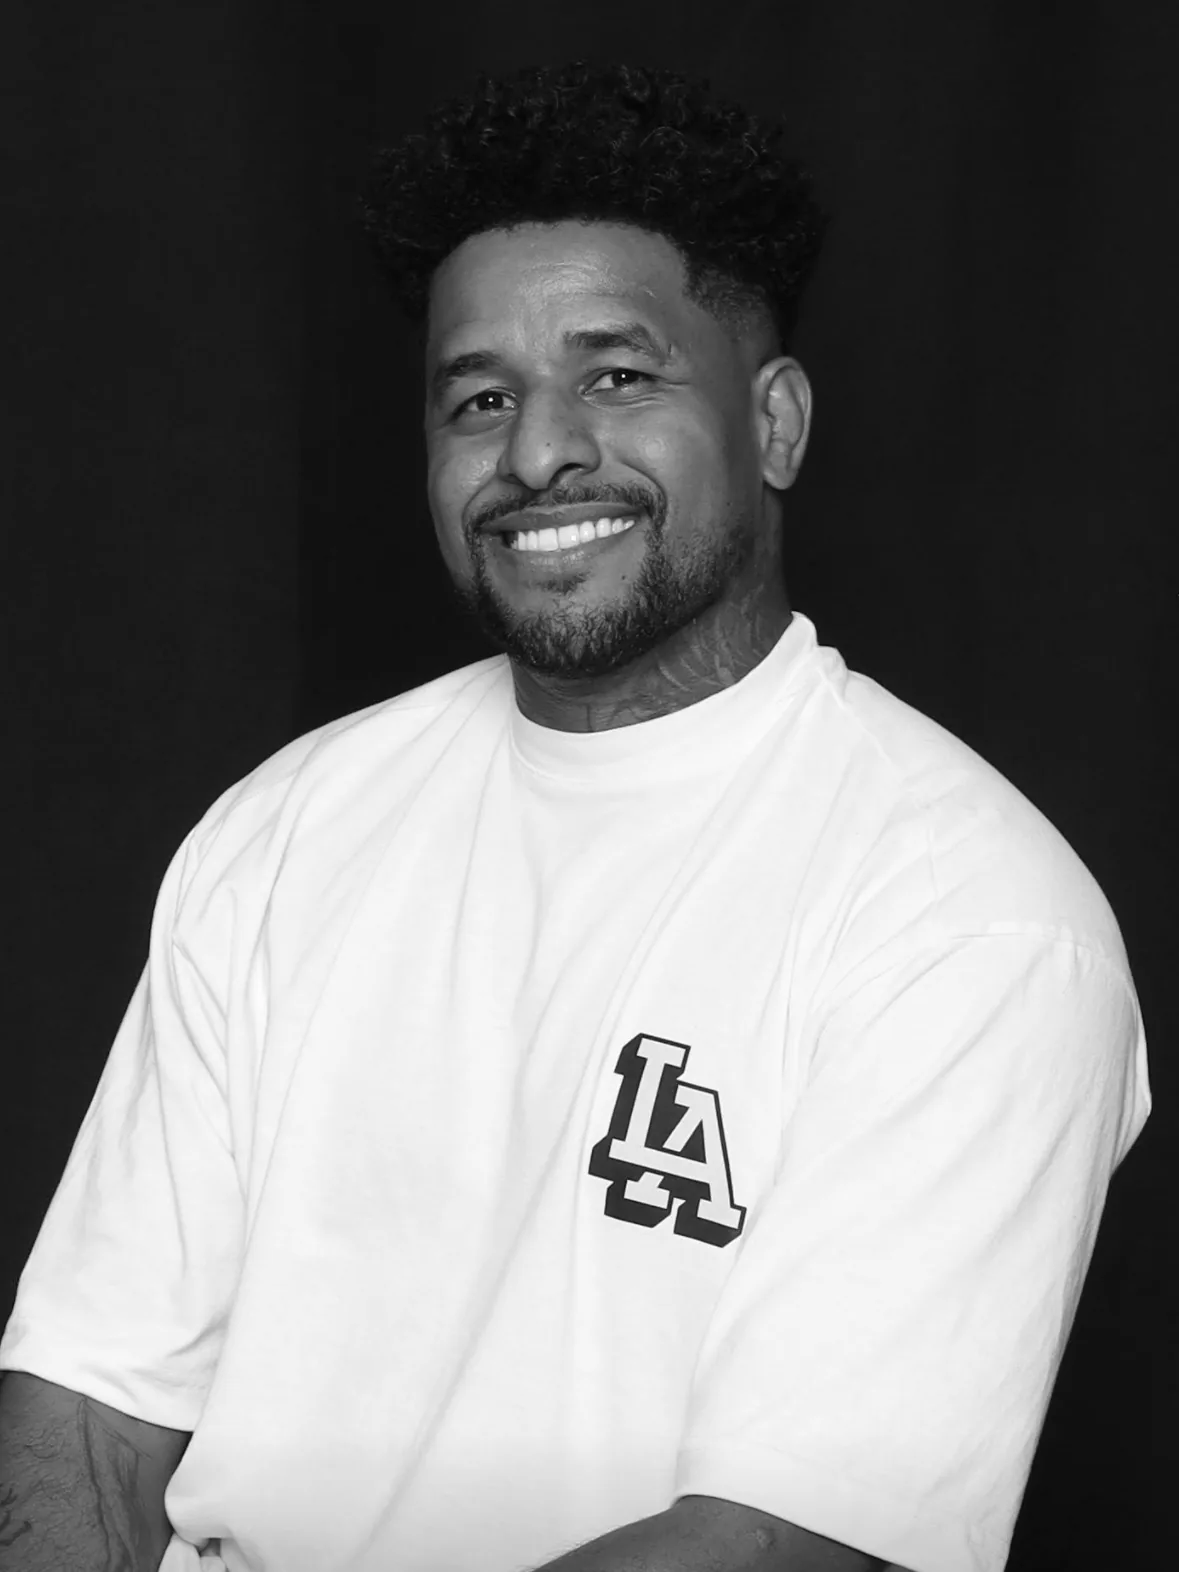
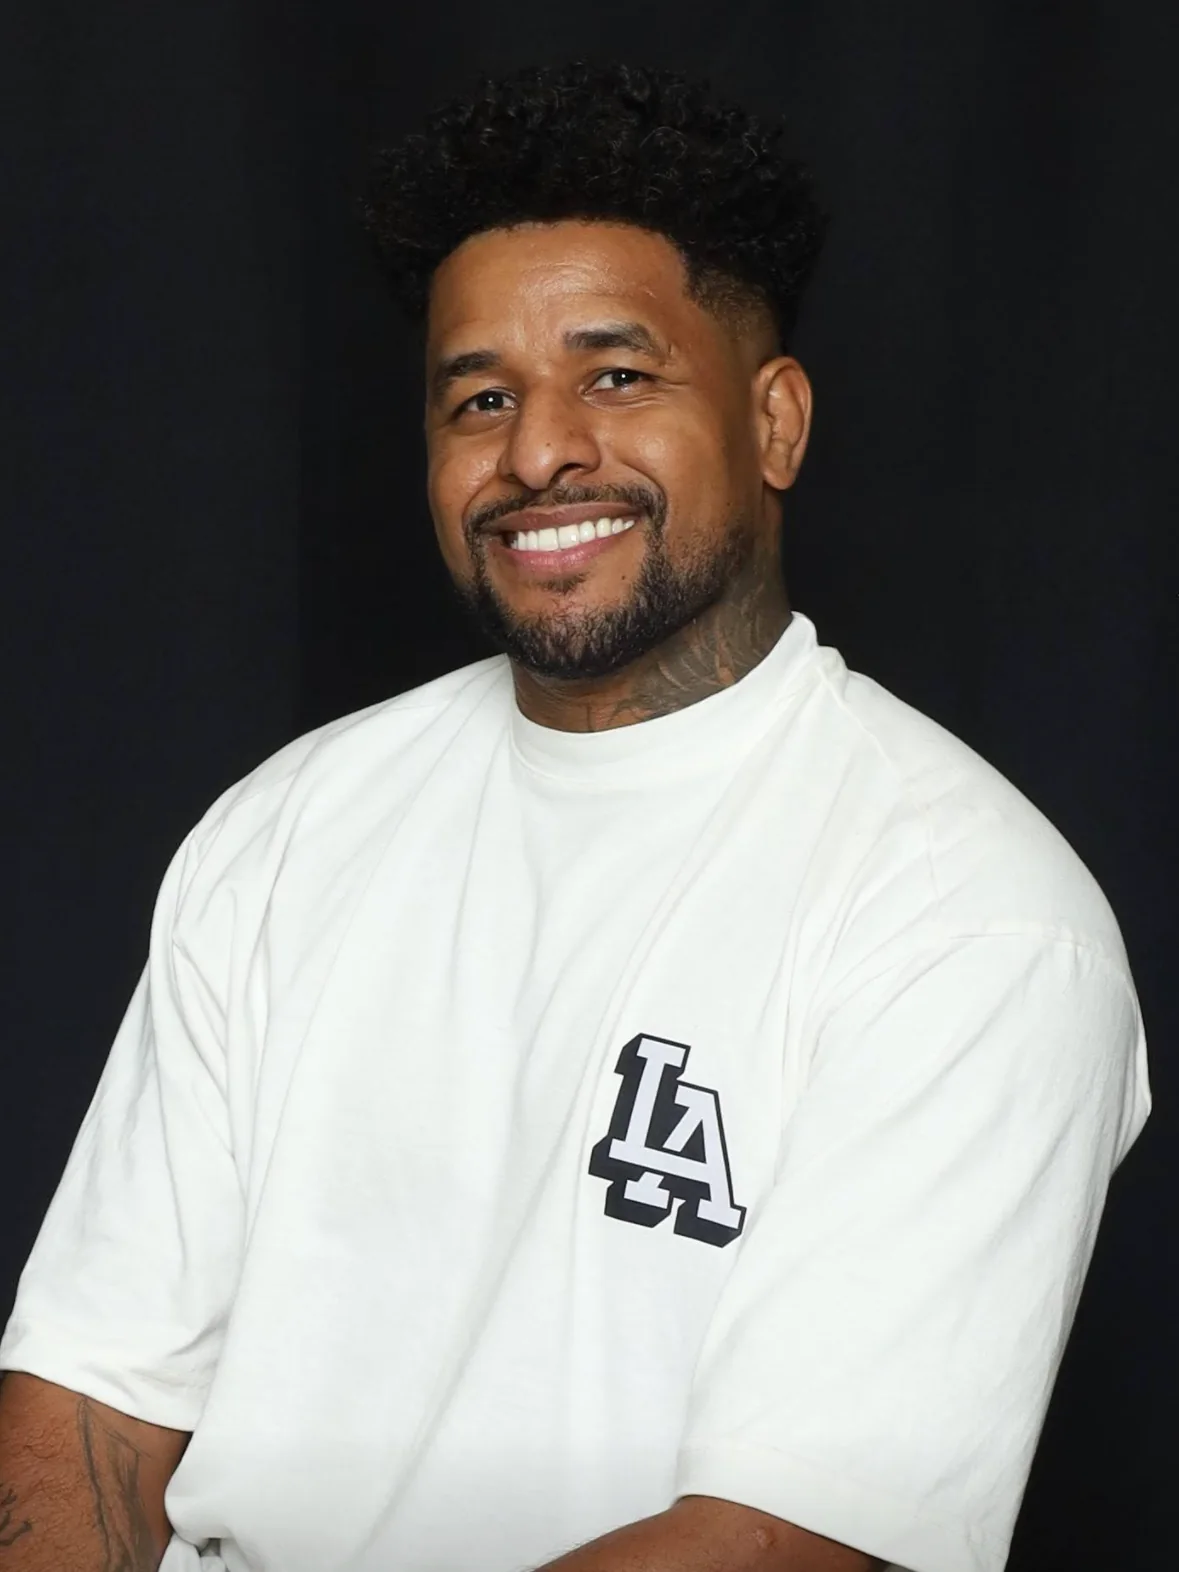
Abertura: o esboco do A se desenha a lapis e vira a arte final
Vetorizei o A aqui mesmo (varredura de vizinhanca + Ramer-Douglas-Peucker, sem potrace na maquina): 19 contornos, 9 KB de SVG com pathLength=1, o que faz todos os tracos riscarem no mesmo tempo. A cortina agora e de papel, nao mais preta: os tracos sao riscados um a um em grafite, o risco dourado abre embaixo e a arte final aparece por cima do esboco - o stencil virando a tattoo. Foto do Andre volta a ser colorida: em preto e branco parecia retrato de memorial.

Claude-Session: https://claude.ai/code/session_01B5M85Z4aLg2P7kzFy8eM4Z

diff --git a/site/index.html b/site/index.html
@@ -55,11 +55,31 @@
 
 <div class="intro" id="intro" aria-hidden="true">
   <div class="intro__palco">
-    <i class="intro__agulha"></i>
-    <span class="intro__a"></span>
-    <span class="intro__brilho"></span>
+    <div class="intro__esboco"><svg aria-hidden="true" xmlns="http://www.w3.org/2000/svg" viewBox="0 0 422 468" fill="none" stroke="currentColor" stroke-width="1.1" stroke-linecap="round" stroke-linejoin="round">
+<path pathLength="1" style="--i:0" d="M 213.0 1.0 L 215.0 19.0 L 222.0 43.0 L 247.0 99.0 L 250.0 103.0 L 257.0 123.0 L 261.0 130.0 L 261.0 132.0 L 260.0 131.0 L 258.0 134.0 L 262.0 138.0 L 263.0 137.0 L 267.0 146.0 L 261.0 144.0 L 257.0 147.0 L 258.0 150.0 L 257.0 154.0 L 255.0 155.0 L 258.0 160.0 L 252.0 163.0 L 249.0 161.0 L 245.0 162.0 L 246.0 159.0 L 244.0 158.0 L 245.0 155.0 L 243.0 153.0 L 240.0 156.0 L 241.0 157.0 L 240.0 162.0 L 238.0 159.0 L 239.0 157.0 L 237.0 152.0 L 233.0 154.0 L 234.0 156.0 L 233.0 157.0 L 229.0 158.0 L 228.0 160.0 L 229.0 162.0 L 228.0 162.0 L 213.0 126.0 L 215.0 125.0 L 218.0 129.0 L 220.0 127.0 L 219.0 123.0 L 222.0 121.0 L 222.0 119.0 L 216.0 115.0 L 208.0 116.0 L 202.0 129.0 L 199.0 169.0 L 198.0 114.0 L 195.0 98.0 L 190.0 84.0 L 194.0 90.0 L 197.0 92.0 L 196.0 94.0 L 198.0 96.0 L 200.0 93.0 L 199.0 92.0 L 202.0 91.0 L 203.0 87.0 L 207.0 89.0 L 208.0 101.0 L 206.0 103.0 L 208.0 107.0 L 205.0 110.0 L 206.0 111.0 L 211.0 110.0 L 210.0 109.0 L 211.0 100.0 L 211.0 86.0 L 210.0 85.0 L 211.0 67.0 L 210.0 64.0 L 212.0 60.0 L 211.0 59.0 L 211.0 38.0 L 212.0 37.0 L 211.0 25.0 L 212.0 24.0 L 210.0 23.0 L 207.0 35.0 L 208.0 42.0 L 206.0 47.0 L 206.0 53.0 L 204.0 56.0 L 207.0 59.0 L 205.0 59.0 L 193.0 72.0 L 185.0 78.0 L 162.0 121.0 L 126.0 194.0 L 121.0 201.0 L 106.0 236.0 L 103.0 241.0 L 98.0 243.0 L 94.0 248.0 L 108.0 218.0 L 141.0 156.0 L 140.0 153.0 L 137.0 157.0 L 140.0 150.0 L 143.0 145.0 L 142.0 147.0 L 143.0 150.0 L 146.0 146.0 L 156.0 125.0 L 167.0 106.0 L 177.0 85.0 L 179.0 78.0 L 187.0 67.0 L 205.0 32.0 L 211.0 15.0 L 213.0 2.0 Z"/>
+<path pathLength="1" style="--i:1" d="M 273.0 213.0 L 273.0 216.0 L 276.0 220.0 L 279.0 230.0 L 281.0 232.0 L 283.0 231.0 L 282.0 230.0 L 283.0 227.0 L 280.0 224.0 L 282.0 222.0 L 281.0 219.0 L 283.0 219.0 L 284.0 224.0 L 291.0 229.0 L 290.0 233.0 L 294.0 241.0 L 294.0 246.0 L 295.0 247.0 L 297.0 246.0 L 301.0 250.0 L 303.0 249.0 L 303.0 245.0 L 302.0 240.0 L 299.0 237.0 L 300.0 234.0 L 297.0 229.0 L 297.0 224.0 L 300.0 232.0 L 304.0 235.0 L 305.0 230.0 L 302.0 225.0 L 302.0 222.0 L 349.0 327.0 L 354.0 342.0 L 372.0 375.0 L 384.0 388.0 L 393.0 394.0 L 415.0 402.0 L 401.0 400.0 L 392.0 396.0 L 384.0 395.0 L 371.0 390.0 L 367.0 390.0 L 356.0 384.0 L 353.0 384.0 L 354.0 382.0 L 349.0 377.0 L 347.0 379.0 L 343.0 375.0 L 343.0 372.0 L 345.0 370.0 L 344.0 365.0 L 341.0 367.0 L 342.0 369.0 L 338.0 371.0 L 327.0 362.0 L 326.0 364.0 L 331.0 379.0 L 328.0 387.0 L 330.0 382.0 L 329.0 373.0 L 322.0 358.0 L 312.0 344.0 L 301.0 333.0 L 293.0 328.0 L 289.0 324.0 L 290.0 323.0 L 289.0 322.0 L 286.0 323.0 L 286.0 337.0 L 281.0 354.0 L 280.0 354.0 L 282.0 350.0 L 285.0 335.0 L 284.0 310.0 L 276.0 279.0 L 254.0 224.0 L 258.0 230.0 L 265.0 248.0 L 268.0 252.0 L 270.0 251.0 L 271.0 254.0 L 273.0 255.0 L 275.0 253.0 L 274.0 251.0 L 276.0 248.0 L 271.0 245.0 L 276.0 247.0 L 277.0 245.0 L 280.0 245.0 L 281.0 247.0 L 282.0 246.0 L 282.0 242.0 L 280.0 240.0 L 278.0 241.0 L 277.0 239.0 L 280.0 235.0 L 278.0 233.0 L 276.0 234.0 L 274.0 233.0 L 275.0 232.0 L 276.0 233.0 L 278.0 230.0 L 276.0 224.0 L 273.0 221.0 L 274.0 220.0 L 273.0 214.0 Z"/>
+<path pathLength="1" style="--i:2" d="M 322.0 143.0 L 326.0 144.0 L 327.0 146.0 L 307.0 156.0 L 304.0 159.0 L 305.0 162.0 L 304.0 167.0 L 298.0 171.0 L 292.0 172.0 L 291.0 173.0 L 292.0 176.0 L 288.0 177.0 L 285.0 183.0 L 286.0 185.0 L 289.0 185.0 L 290.0 182.0 L 291.0 184.0 L 301.0 183.0 L 229.0 201.0 L 186.0 215.0 L 157.0 227.0 L 126.0 243.0 L 97.0 263.0 L 72.0 288.0 L 65.0 299.0 L 60.0 311.0 L 58.0 321.0 L 58.0 330.0 L 60.0 339.0 L 65.0 349.0 L 59.0 340.0 L 55.0 327.0 L 56.0 303.0 L 60.0 292.0 L 70.0 275.0 L 93.0 252.0 L 104.0 245.0 L 99.0 250.0 L 102.0 251.0 L 106.0 249.0 L 125.0 236.0 L 124.0 233.0 L 114.0 240.0 L 107.0 243.0 L 122.0 232.0 L 142.0 220.0 L 174.0 204.0 L 200.0 193.0 L 201.0 192.0 L 198.0 185.0 L 198.0 181.0 L 201.0 180.0 L 207.0 181.0 L 206.0 187.0 L 202.0 190.0 L 205.0 191.0 L 218.0 185.0 L 221.0 185.0 L 265.0 168.0 L 314.0 153.0 L 324.0 148.0 L 325.0 145.0 L 323.0 144.0 Z"/>
+<path pathLength="1" style="--i:3" d="M 204.0 213.0 L 211.0 214.0 L 211.0 221.0 L 208.0 222.0 L 212.0 225.0 L 206.0 227.0 L 212.0 229.0 L 211.0 230.0 L 212.0 232.0 L 208.0 234.0 L 213.0 237.0 L 211.0 240.0 L 208.0 241.0 L 214.0 243.0 L 211.0 245.0 L 213.0 248.0 L 209.0 249.0 L 214.0 251.0 L 209.0 254.0 L 214.0 256.0 L 210.0 259.0 L 211.0 261.0 L 206.0 262.0 L 213.0 264.0 L 212.0 267.0 L 208.0 267.0 L 206.0 269.0 L 214.0 270.0 L 211.0 272.0 L 211.0 276.0 L 213.0 278.0 L 211.0 279.0 L 198.0 278.0 L 197.0 271.0 L 203.0 269.0 L 199.0 267.0 L 198.0 264.0 L 205.0 262.0 L 199.0 261.0 L 198.0 258.0 L 199.0 257.0 L 198.0 256.0 L 201.0 255.0 L 199.0 253.0 L 201.0 249.0 L 198.0 248.0 L 198.0 246.0 L 199.0 243.0 L 202.0 241.0 L 198.0 237.0 L 202.0 234.0 L 200.0 233.0 L 199.0 230.0 L 204.0 227.0 L 200.0 226.0 L 199.0 224.0 L 203.0 222.0 L 200.0 220.0 L 203.0 214.0 Z"/>
+<path pathLength="1" style="--i:4" d="M 202.0 292.0 L 203.0 307.0 L 204.0 308.0 L 206.0 302.0 L 207.0 303.0 L 206.0 305.0 L 207.0 307.0 L 206.0 352.0 L 205.0 353.0 L 208.0 380.0 L 208.0 407.0 L 211.0 415.0 L 215.0 419.0 L 215.0 420.0 L 208.0 419.0 L 207.0 415.0 L 202.0 419.0 L 207.0 429.0 L 209.0 428.0 L 212.0 422.0 L 210.0 424.0 L 208.0 431.0 L 208.0 454.0 L 207.0 456.0 L 206.0 429.0 L 204.0 424.0 L 199.0 420.0 L 203.0 416.0 L 206.0 410.0 L 207.0 404.0 L 207.0 378.0 L 205.0 370.0 L 202.0 341.0 L 198.0 325.0 L 198.0 322.0 L 199.0 323.0 L 200.0 322.0 L 200.0 295.0 L 201.0 293.0 Z"/>
+<path pathLength="1" style="--i:5" d="M 97.0 331.0 L 96.0 329.0 L 92.0 336.0 L 88.0 348.0 L 82.0 360.0 L 78.0 375.0 L 67.0 383.0 L 62.0 384.0 L 52.0 390.0 L 39.0 393.0 L 34.0 396.0 L 41.0 397.0 L 59.0 395.0 L 69.0 397.0 L 70.0 396.0 L 81.0 396.0 L 82.0 397.0 L 83.0 396.0 L 85.0 397.0 L 107.0 396.0 L 111.0 397.0 L 112.0 396.0 L 110.0 395.0 L 112.0 396.0 L 121.0 395.0 L 110.0 391.0 L 100.0 380.0 L 96.0 373.0 L 92.0 356.0 L 93.0 355.0 L 93.0 345.0 L 97.0 332.0 Z"/>
+<path pathLength="1" style="--i:6" d="M 198.0 200.0 L 195.0 199.0 L 182.0 204.0 L 180.0 206.0 L 177.0 206.0 L 142.0 224.0 L 140.0 227.0 L 144.0 228.0 L 145.0 226.0 L 153.0 226.0 L 160.0 222.0 L 164.0 222.0 L 167.0 219.0 L 171.0 219.0 L 172.0 218.0 L 171.0 216.0 L 173.0 217.0 L 179.0 214.0 L 183.0 214.0 L 186.0 211.0 L 189.0 212.0 L 192.0 209.0 L 199.0 206.0 L 196.0 205.0 L 199.0 203.0 L 199.0 201.0 Z"/>
+<path pathLength="1" style="--i:7" d="M 119.0 277.0 L 120.0 277.0 L 119.0 280.0 L 97.0 334.0 L 94.0 348.0 L 94.0 363.0 L 98.0 374.0 L 104.0 382.0 L 112.0 389.0 L 127.0 395.0 L 135.0 397.0 L 149.0 398.0 L 149.0 399.0 L 115.0 398.0 L 114.0 397.0 L 111.0 398.0 L 28.0 397.0 L 23.0 399.0 L 12.0 400.0 L 25.0 396.0 L 39.0 389.0 L 50.0 381.0 L 61.0 370.0 L 75.0 352.0 L 86.0 335.0 L 119.0 278.0 Z"/>
+<path pathLength="1" style="--i:8" d="M 303.0 315.0 L 302.0 314.0 L 300.0 317.0 L 296.0 319.0 L 299.0 322.0 L 298.0 324.0 L 292.0 318.0 L 289.0 318.0 L 287.0 320.0 L 291.0 325.0 L 296.0 328.0 L 300.0 327.0 L 301.0 332.0 L 304.0 333.0 L 305.0 328.0 L 306.0 327.0 L 308.0 328.0 L 311.0 324.0 L 308.0 321.0 L 308.0 315.0 L 307.0 314.0 L 304.0 315.0 L 303.0 318.0 L 304.0 320.0 L 303.0 320.0 L 303.0 316.0 Z"/>
+<path pathLength="1" style="--i:9" d="M 227.0 140.0 L 226.0 139.0 L 225.0 140.0 L 226.0 143.0 L 224.0 146.0 L 233.0 153.0 L 234.0 150.0 L 237.0 151.0 L 238.0 147.0 L 236.0 145.0 L 234.0 148.0 L 230.0 149.0 L 231.0 147.0 L 233.0 148.0 L 234.0 147.0 L 232.0 144.0 L 230.0 144.0 L 232.0 143.0 L 234.0 144.0 L 235.0 143.0 L 234.0 141.0 L 236.0 141.0 L 237.0 143.0 L 238.0 140.0 L 228.0 139.0 Z"/>
+<path pathLength="1" style="--i:10" d="M 87.0 261.0 L 86.0 260.0 L 78.0 269.0 L 77.0 272.0 L 71.0 276.0 L 70.0 279.0 L 63.0 287.0 L 59.0 296.0 L 56.0 310.0 L 56.0 318.0 L 57.0 319.0 L 58.0 318.0 L 60.0 306.0 L 67.0 291.0 L 79.0 273.0 L 83.0 270.0 L 87.0 262.0 Z"/>
+<path pathLength="1" style="--i:11" d="M 197.0 11.0 L 206.0 11.0 L 204.0 13.0 L 195.0 13.0 L 176.0 16.0 L 150.0 24.0 L 137.0 30.0 L 114.0 45.0 L 134.0 31.0 L 155.0 21.0 L 178.0 14.0 L 196.0 12.0 Z"/>
+<path pathLength="1" style="--i:12" d="M 226.0 12.0 L 244.0 14.0 L 272.0 23.0 L 294.0 35.0 L 310.0 47.0 L 326.0 63.0 L 333.0 73.0 L 309.0 48.0 L 286.0 32.0 L 253.0 18.0 L 227.0 13.0 Z"/>
+<path pathLength="1" style="--i:13" d="M 318.0 394.0 L 319.0 394.0 L 318.0 395.0 L 313.0 396.0 L 312.0 397.0 L 313.0 398.0 L 319.0 397.0 L 323.0 398.0 L 297.0 399.0 L 317.0 395.0 Z"/>
+<path pathLength="1" style="--i:14" d="M 216.0 300.0 L 216.0 325.0 L 213.0 335.0 L 209.0 363.0 L 211.0 338.0 L 213.0 327.0 L 216.0 320.0 L 215.0 318.0 L 216.0 301.0 Z"/>
+<path pathLength="1" style="--i:15" d="M 165.0 228.0 L 167.0 228.0 L 163.0 230.0 L 149.0 235.0 L 140.0 240.0 L 140.0 239.0 L 154.0 232.0 L 164.0 229.0 Z"/>
+<path pathLength="1" style="--i:16" d="M 90.0 69.0 L 81.0 80.0 L 74.0 93.0 L 73.0 94.0 L 74.0 91.0 L 81.0 80.0 L 89.0 70.0 Z"/>
+<path pathLength="1" style="--i:17" d="M 212.0 299.0 L 213.0 317.0 L 211.0 322.0 L 209.0 323.0 L 212.0 318.0 L 212.0 300.0 Z"/>
+<path pathLength="1" style="--i:18" d="M 278.0 359.0 L 275.0 368.0 L 264.0 382.0 L 260.0 385.0 L 270.0 374.0 L 278.0 360.0 Z"/>
+</svg></div>
+    <span class="intro__arte"></span>
     <i class="intro__risco"></i>
   </div>
+</div>
 </div>
 
 <svg id="needle" aria-hidden="true"><path class="track"/><path class="ink"/><path class="rastro"/><circle class="tip-ring" r="9"/><circle class="tip" r="3.2"/></svg>

diff --git a/site/css/style.css b/site/css/style.css
@@ -60,43 +60,37 @@ main,header,footer{position:relative}
 .hero figure,.work,.about figure,.strip img,.studio figure,.rev__card,.btn,.ribbon,.nav{position:relative;z-index:3}
 
 /* ---------- ABERTURA ----------
-   A agulha desce, o A é revelado de cima para baixo como se estivesse sendo
-   tatuado, o risco abre na linha do círculo e um brilho corre por dentro do
-   metal. No fim a cortina sobe e entrega a página.
-   Só transform, opacity e clip-path: nada disso repinta o layout. */
+   O stencil vira a tattoo: os 19 traços do A são riscados um a um, como um
+   desenho a lápis no papel, e a arte final aparece por cima do esboço.
+   pathLength="1" no SVG normaliza os traços: todos riscam no mesmo tempo.
+   Só stroke-dashoffset, opacity e transform — nada repinta layout. */
 .intro{display:none}
 html.abertura{overflow:hidden}
 html.abertura .intro{display:grid;place-items:center;position:fixed;inset:0;z-index:200;
-  background:var(--ink);transition:transform .8s cubic-bezier(.76,0,.24,1)}
-.intro.is-out{transform:translateY(-101%)}
-.intro__palco{position:relative;width:min(230px,42vw);aspect-ratio:480/618;
-  transition:transform .6s cubic-bezier(.2,.7,.2,1),opacity .45s}
-.intro.is-out .intro__palco{transform:scale(1.07);opacity:0}
+  background:var(--paper);transition:opacity .7s ease}
+.intro.is-out{opacity:0}
+.intro__palco{position:relative;width:min(255px,46vw);aspect-ratio:422/468;
+  transition:transform .7s cubic-bezier(.2,.7,.2,1)}
+.intro.is-out .intro__palco{transform:scale(1.05)}
 
-.intro__agulha{position:absolute;left:50%;top:-14%;height:128%;width:1px;
-  background:linear-gradient(180deg,transparent,var(--gold-soft) 16%,var(--gold) 50%,var(--gold-soft) 84%,transparent);
-  transform:translateX(-50%) scaleY(0);transform-origin:top;
-  animation:introAgulha .6s cubic-bezier(.45,0,.25,1) .08s forwards}
+.intro__esboco,.intro__esboco svg{position:absolute;inset:0;width:100%;height:100%}
+.intro__esboco{color:#6B645B;animation:esbocoSai .55s ease 1.3s forwards}
+.intro__esboco path{stroke-dasharray:1;stroke-dashoffset:1;
+  animation:risca .7s cubic-bezier(.35,0,.25,1) forwards;
+  animation-delay:calc(.12s + var(--i) * .032s)}
 
-/* inset(0 0 100% 0) = só a faixa de cima visível; a faixa cresce para baixo,
-   acompanhando a agulha. Com inset(100% 0 0 0) a revelação subiria ao contrário. */
-.intro__a{position:absolute;inset:0;background:url("../img/logo-a.webp") center/contain no-repeat;
-  clip-path:inset(0 0 100% 0);animation:introRevela .9s cubic-bezier(.3,.6,.2,1) .4s forwards}
+.intro__arte{position:absolute;inset:0;opacity:0;
+  background:url("../img/logo-a-tinta.webp") center/contain no-repeat;
+  animation:arteEntra .7s ease 1.2s forwards}
 
-.intro__brilho{position:absolute;inset:0;opacity:0;
-  background:linear-gradient(104deg,transparent 40%,rgba(255,255,255,.55) 50%,transparent 60%);
-  -webkit-mask:url("../img/logo-a.webp") center/contain no-repeat;
-          mask:url("../img/logo-a.webp") center/contain no-repeat;
-  animation:introBrilho 1.05s cubic-bezier(.35,0,.3,1) 1.15s forwards}
-
-.intro__risco{position:absolute;left:50%;top:46%;width:min(320px,58vw);height:1px;
-  background:linear-gradient(90deg,transparent,var(--gold-soft) 28%,var(--gold-soft) 72%,transparent);
+.intro__risco{position:absolute;left:50%;bottom:-10%;width:min(210px,38vw);height:1px;
+  background:linear-gradient(90deg,transparent,var(--gold),transparent);
   transform:translateX(-50%) scaleX(0);
-  animation:introRisco .85s cubic-bezier(.2,.7,.2,1) .9s forwards}
+  animation:introRisco .8s cubic-bezier(.2,.7,.2,1) 1.05s forwards}
 
-@keyframes introAgulha{to{transform:translateX(-50%) scaleY(1)}}
-@keyframes introRevela{from{clip-path:inset(0 0 100% 0)}to{clip-path:inset(0 0 0 0)}}
-@keyframes introBrilho{0%{opacity:0;transform:translateX(-45%)}25%{opacity:1}100%{opacity:0;transform:translateX(45%)}}
+@keyframes risca{to{stroke-dashoffset:0}}
+@keyframes esbocoSai{to{opacity:0}}
+@keyframes arteEntra{to{opacity:1}}
 @keyframes introRisco{to{transform:translateX(-50%) scaleX(1)}}
 
 /* nav */

diff --git a/site/js/main.js b/site/js/main.js
@@ -28,9 +28,9 @@
         raiz.classList.remove('abertura');
         if(el.parentNode) el.parentNode.removeChild(el);
         build();                       /* a barra de rolagem volta: refaz a linha */
-      }, 820);
+      }, 760);
     }
-    setTimeout(sai, 2150);   /* agulha, revelação do A, risco e brilho terminam em ~2,1s */
+    setTimeout(sai, 2050);  /* o esboço fecha em ~1,4s e a arte final entra até 1,9s */
     addEventListener('pointerdown', sai);   /* quem tem pressa, pula */
     addEventListener('keydown', sai);
   })();
